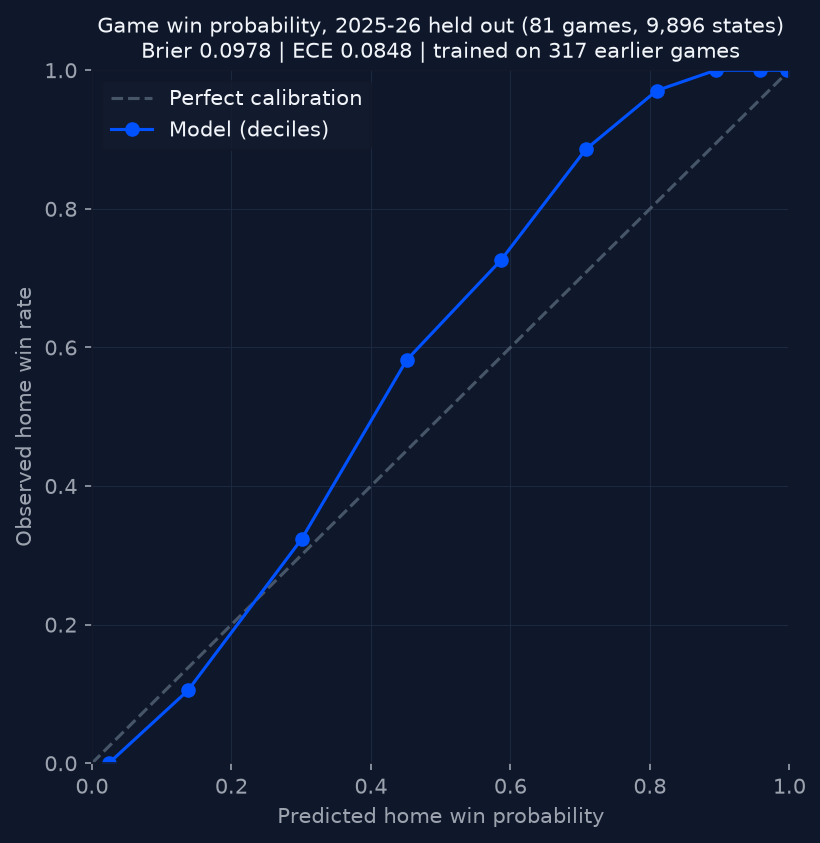
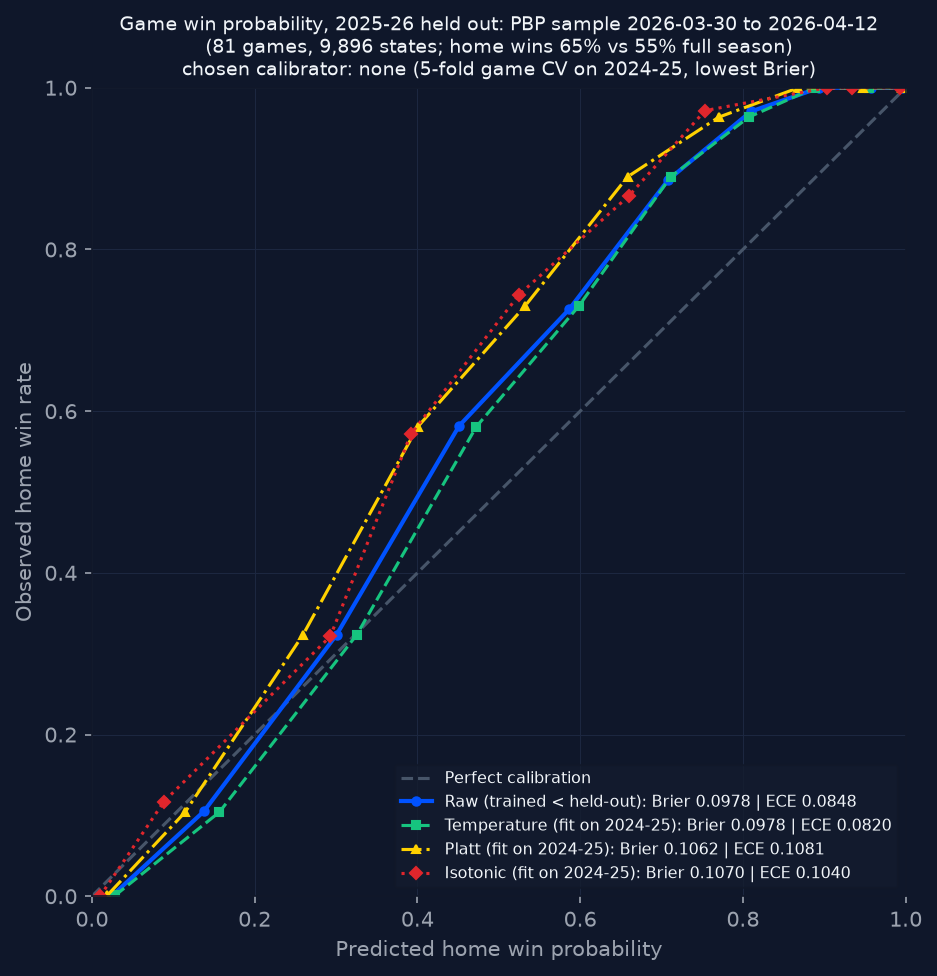
docs: honest win-probability calibration report
- calibration_plot.py compares temperature, Platt and isotonic calibrators
  fitted on 2024-25 (base model trained on earlier seasons) and chooses by
  5-fold game-grouped CV Brier on 2024-25 only; none beats the raw model, so
  none is applied. Adds a game-cluster bootstrap interval for the ECE.
- Plot: raw and calibrated curves on the 2025-26 held-out sample with Brier
  and ECE per curve; the sample is the season's last two weeks (81 games,
  65% home wins vs 55% over the full season).
- README TL;DR: ECE 0.016 in-sample, 0.085 held out (95% CI 0.058-0.142),
  calibrators did not help; states within a game are correlated.
- Ignore .claude/ (local agent worktrees).

diff --git a/scripts/calibration_plot.py b/scripts/calibration_plot.py
@@ -4,10 +4,17 @@ The model (``hoops_lab.models.game_win_probability``) is trained on every season
 before the newest complete regular season and scored on that season's PBP states (tip-off
 plus every scoring event), the same temporal split as the export gate. States are binned
 into deciles of predicted home-win probability (equal-count bins); each point is a bin's
-mean prediction against its observed home-win rate. The Brier score is in the title.
+mean prediction against its observed home-win rate.
+
+Post-hoc calibration is tested without touching the held-out season: a base model is fitted
+on the seasons before the calibration season (the one right before the held-out season),
+and temperature, Platt and isotonic calibrators are fitted on the calibration season. The
+choice uses only the calibration season: 5-fold cross-validation grouped by game, lowest
+Brier, and a calibrator is adopted only if it beats no calibration. All curves are then
+drawn on the held-out season, with Brier and ECE in the legend.
 
 States of one game are correlated, so bins are not independent samples: read the diagram
-as calibration, not as a significance test.
+as calibration, not as a significance test. The ECE interval is a game-cluster bootstrap.
 
 Run from the repo root::
 
@@ -19,6 +26,7 @@ from __future__ import annotations
 
 import argparse
 import sys
+from collections.abc import Callable
 from pathlib import Path
 
 # Repo root importable regardless of how the script is launched.
@@ -33,12 +41,16 @@ matplotlib.use("Agg")
 import matplotlib.pyplot as plt  # noqa: E402
 import numpy as np  # noqa: E402
 import pandas as pd  # noqa: E402
+from sklearn.isotonic import IsotonicRegression  # noqa: E402
+from sklearn.linear_model import LogisticRegression  # noqa: E402
+from sklearn.model_selection import GroupKFold  # noqa: E402
 
 from dashboard.components.theme import TOKENS  # noqa: E402
 from hoops_lab.models.game_win_probability import (  # noqa: E402
     build_states,
     completed_holdout_seasons,
     expected_calibration_error,
+    features,
     fit,
     predict,
     pregame_priors,
@@ -47,6 +59,10 @@ from hoops_lab.storage.database import Database  # noqa: E402
 
 OUT_PATH = "docs/img/calibration.png"
 BINS = 10
+CV_FOLDS = 5
+CALIBRATORS = ("none", "temperature", "platt", "isotonic")
+
+Calibrator = Callable[[np.ndarray], np.ndarray]
 
 
 def reliability_table(y: np.ndarray, p: np.ndarray, bins: int = BINS) -> pd.DataFrame:
@@ -69,58 +85,106 @@ def brier_score(y: np.ndarray, p: np.ndarray) -> float:
     return float(np.mean((np.asarray(p, float) - np.asarray(y, float)) ** 2))
 
 
-def holdout_predictions(db: Database) -> tuple[str, np.ndarray, np.ndarray, int, int]:
-    """Season, outcomes and predictions of the last complete season, plus train/test games."""
-    seasons = completed_holdout_seasons(db, n=1)
-    if not seasons:
-        raise SystemExit("no complete regular season in the database")
-    season = seasons[0]
-    states = build_states(
-        db.query_df("SELECT * FROM play_by_play"),
-        db.query_df("SELECT * FROM games"),
-        pregame_priors(db.query_df("SELECT * FROM box_scores_team")),
-    )
-    train = states.loc[states["season"] < season]
-    test = states.loc[states["season"] == season]
-    if train.empty or test.empty:
-        raise SystemExit(f"no PBP states to train before or score in {season}")
-    y = test["home_won"].astype(int).to_numpy()
-    return (
-        season,
-        y,
-        predict(fit(train), test),
-        train["game_id"].nunique(),
-        test["game_id"].nunique(),
-    )
+def fit_calibrators(z: np.ndarray, y: np.ndarray) -> dict[str, Calibrator]:
+    """Map logit -> probability for each method in ``CALIBRATORS``, fitted on ``(z, y)``.
+
+    ``temperature`` rescales the logit (no intercept, so the home/away symmetry of the model
+    survives), ``platt`` adds an intercept, ``isotonic`` is a monotone step function.
+    """
+    column = np.asarray(z, float).reshape(-1, 1)
+    temperature = LogisticRegression(fit_intercept=False, C=np.inf).fit(column, y)
+    platt = LogisticRegression(C=np.inf).fit(column, y)
+    isotonic = IsotonicRegression(out_of_bounds="clip", y_min=0.0, y_max=1.0).fit(column[:, 0], y)
+    return {
+        "none": lambda x: 1.0 / (1.0 + np.exp(-np.asarray(x, float))),
+        "temperature": lambda x: temperature.predict_proba(np.reshape(x, (-1, 1)))[:, 1],
+        "platt": lambda x: platt.predict_proba(np.reshape(x, (-1, 1)))[:, 1],
+        "isotonic": lambda x: isotonic.predict(np.asarray(x, float)),
+    }
 
 
-def plot(table: pd.DataFrame, title: str, out: Path) -> None:
-    """Draw the reliability diagram (theme tokens, dark card) and save it as PNG."""
-    fig, ax = plt.subplots(figsize=(6, 6), dpi=150)
+def pick_calibrator(cv: pd.DataFrame) -> str:
+    """Lowest cross-validated Brier; ``none`` unless another method is strictly lower."""
+    best = cv["brier"].idxmin()
+    return best if cv.loc[best, "brier"] < cv.loc["none", "brier"] else "none"
+
+
+def choose_calibrator(
+    z: np.ndarray, y: np.ndarray, groups: np.ndarray, folds: int = CV_FOLDS
+) -> tuple[str, pd.DataFrame]:
+    """Chosen method and its CV table (Brier, ECE), from game-grouped K-fold on ``(z, y)``.
+
+    Out-of-fold predictions only: scoring a calibrator on the states it was fitted on
+    rewards overfitting (isotonic reaches ECE 0 that way).
+    """
+    z, y = np.asarray(z, float), np.asarray(y, int)
+    oof = {name: np.zeros(len(y)) for name in CALIBRATORS}
+    for train, test in GroupKFold(folds).split(z, y, groups):
+        fitted = fit_calibrators(z[train], y[train])
+        for name in CALIBRATORS:
+            oof[name][test] = fitted[name](z[test])
+    cv = pd.DataFrame(
+        {
+            "brier": [brier_score(y, oof[name]) for name in CALIBRATORS],
+            "ece": [expected_calibration_error(y, oof[name]) for name in CALIBRATORS],
+        },
+        index=list(CALIBRATORS),
+    )
+    return pick_calibrator(cv), cv
+
+
+def cluster_bootstrap_ece(
+    y: np.ndarray, p: np.ndarray, groups: np.ndarray, n_boot: int = 1000, seed: int = 0
+) -> tuple[float, float]:
+    """95% interval of the ECE, resampling whole games (states of a game are correlated)."""
+    frame = pd.DataFrame({"y": y, "p": p, "g": groups})
+    by_game = [game[["y", "p"]].to_numpy(float) for _, game in frame.groupby("g")]
+    rng = np.random.default_rng(seed)
+    draws = []
+    for _ in range(n_boot):
+        sample = np.concatenate([by_game[i] for i in rng.integers(0, len(by_game), len(by_game))])
+        draws.append(expected_calibration_error(sample[:, 0], sample[:, 1]))
+    lo, hi = np.percentile(draws, [2.5, 97.5])
+    return float(lo), float(hi)
+
+
+def _logit(model: LogisticRegression, states: pd.DataFrame) -> np.ndarray:
+    return model.decision_function(features(states))
+
+
+def plot(curves: dict[str, tuple[pd.DataFrame, str]], title: str, out: Path) -> None:
+    """Draw the reliability curves (label -> (table, style key)) and save them as PNG."""
+    styles = {
+        "raw": {"color": TOKENS["primary"], "linestyle": "-", "marker": "o", "linewidth": 2},
+        "temperature": {"color": TOKENS["good"], "linestyle": "--", "marker": "s"},
+        "platt": {"color": TOKENS["mid"], "linestyle": "-.", "marker": "^"},
+        "isotonic": {"color": TOKENS["weak"], "linestyle": ":", "marker": "D"},
+    }
+    fig, ax = plt.subplots(figsize=(7, 7), dpi=150)
     fig.patch.set_facecolor(TOKENS["bg_card"])
     ax.set_facecolor(TOKENS["bg_card"])
     ax.plot([0, 1], [0, 1], linestyle="--", color=TOKENS["text_faint"], label="Perfect calibration")
-    ax.plot(
-        table["predicted"],
-        table["observed"],
-        marker="o",
-        color=TOKENS["primary"],
-        label="Model (deciles)",
-    )
+    for label, (table, key) in curves.items():
+        ax.plot(table["predicted"], table["observed"], markersize=4, label=label, **styles[key])
     ax.set(
         xlim=(0, 1),
         ylim=(0, 1),
         xlabel="Predicted home win probability",
         ylabel="Observed home win rate",
     )
-    ax.set_title(title, color=TOKENS["text"], fontsize=10)
+    ax.set_title(title, color=TOKENS["text"], fontsize=9)
     ax.grid(color=TOKENS["grid"], linewidth=0.5)
     for spine in ax.spines.values():
         spine.set_color(TOKENS["border"])
     ax.tick_params(colors=TOKENS["text_soft"])
     ax.xaxis.label.set_color(TOKENS["text_soft"])
     ax.yaxis.label.set_color(TOKENS["text_soft"])
-    legend = ax.legend(loc="upper left", facecolor=TOKENS["bg_tile"], edgecolor=TOKENS["border"])
+    legend = ax.legend(
+        loc="lower right",
+        fontsize=7.5,
+        facecolor=TOKENS["bg_tile"],
+        edgecolor=TOKENS["border"],
+    )
     for text in legend.get_texts():
         text.set_color(TOKENS["text"])
     out.parent.mkdir(parents=True, exist_ok=True)
@@ -136,21 +200,81 @@ def main(argv: list[str] | None = None) -> int:
     db = Database()
     try:
         db.ensure_db_ready()
-        season, y, p, train_games, test_games = holdout_predictions(db)
+        held = completed_holdout_seasons(db, n=1)
+        games = db.query_df("SELECT * FROM games")
+        states = build_states(
+            db.query_df("SELECT * FROM play_by_play"),
+            games,
+            pregame_priors(db.query_df("SELECT * FROM box_scores_team")),
+        )
     finally:
         db.close()
+    if not held:
+        raise SystemExit("no complete regular season in the database")
+    season = held[0]
+    earlier = sorted(states.loc[states["season"] < season, "season"].unique())
+    if len(earlier) < 2 or not (states["season"] == season).any():
+        raise SystemExit(f"need PBP states for {season} and two seasons before it")
+    cal_season = earlier[-1]
 
-    table = reliability_table(y, p)
-    brier = brier_score(y, p)
-    ece = expected_calibration_error(y, p)
+    train = states.loc[states["season"] < season]
+    test = states.loc[states["season"] == season]
+    cal = states.loc[states["season"] == cal_season]
+    y, y_cal, y_train = (frame["home_won"].astype(int).to_numpy() for frame in (test, cal, train))
+
+    # Raw: the shipped recipe, trained on every season before the held-out one.
+    raw_model = fit(train)
+    p_raw = predict(raw_model, test)
+    in_sample_ece = expected_calibration_error(y_train, predict(raw_model, train))
+    ece_lo, ece_hi = cluster_bootstrap_ece(y, p_raw, test["game_id"].to_numpy())
+
+    # Calibration: base model before the calibration season, calibrators on it, CV choice.
+    base = fit(states.loc[states["season"] < cal_season])
+    z_cal, z_test = _logit(base, cal), _logit(base, test)
+    chosen, cv = choose_calibrator(z_cal, y_cal, cal["game_id"].to_numpy())
+    fitted = fit_calibrators(z_cal, y_cal)
+
+    def legend(name: str, p: np.ndarray) -> str:
+        return f"{name}: Brier {brier_score(y, p):.4f} | ECE {expected_calibration_error(y, p):.4f}"
+
+    curves = {legend("Raw (trained < held-out)", p_raw): (reliability_table(y, p_raw), "raw")}
+    for name in CALIBRATORS[1:]:
+        p = fitted[name](z_test)
+        curves[legend(f"{name.capitalize()} (fit on {cal_season})", p)] = (
+            reliability_table(y, p),
+            name,
+        )
+
+    sample = games.loc[games["game_id"].astype(str).isin(test["game_id"])]
+    first, last = (
+        pd.Timestamp(d).strftime("%Y-%m-%d") for d in sample["game_date"].agg(["min", "max"])
+    )
+    regular = games.loc[(games["season"] == season) & (games["season_type"] == "Regular Season")]
+    season_home = float((regular["home_pts"] > regular["away_pts"]).mean())
+    sample_home = float(test.drop_duplicates("game_id")["home_won"].mean())
+
     title = (
-        f"Game win probability, {season} held out ({test_games} games, {len(y):,} states)\n"
-        f"Brier {brier:.4f} | ECE {ece:.4f} | trained on {train_games} earlier games"
+        f"Game win probability, {season} held out: PBP sample {first} to {last}\n"
+        f"({test['game_id'].nunique()} games, {len(y):,} states; home wins {sample_home:.0%} "
+        f"vs {season_home:.0%} full season)\n"
+        f"chosen calibrator: {chosen} (5-fold game CV on {cal_season}, lowest Brier)"
     )
     out = ROOT / args.out
-    plot(table, title, out)
-    print(table.to_string(float_format="%.3f"))
-    print(f"season={season} brier={brier:.4f} ece={ece:.4f} -> {out.relative_to(ROOT)}")
+    plot(curves, title, out)
+
+    print(f"calibration set {cal_season}, game-grouped {CV_FOLDS}-fold CV:")
+    print(cv.to_string(float_format="%.4f"))
+    print(f"chosen: {chosen}")
+    print(f"held-out {season}: {test['game_id'].nunique()} games, {first} to {last}")
+    print(f"home win rate: PBP sample {sample_home:.3f} vs full regular season {season_home:.3f}")
+    for label in curves:
+        print(f"  {label}")
+    print(
+        f"raw in-sample ECE {in_sample_ece:.4f}; raw held-out ECE "
+        f"{expected_calibration_error(y, p_raw):.4f}, game-cluster bootstrap 95% "
+        f"[{ece_lo:.3f}, {ece_hi:.3f}]"
+    )
+    print(f"-> {out.relative_to(ROOT)}")
     return 0
 
 

diff --git a/tests/unit/test_calibration_plot.py b/tests/unit/test_calibration_plot.py
@@ -3,9 +3,18 @@
 from __future__ import annotations
 
 import numpy as np
+import pandas as pd
 import pytest
 
-from scripts.calibration_plot import brier_score, reliability_table
+from hoops_lab.models.game_win_probability import expected_calibration_error
+from scripts.calibration_plot import (
+    brier_score,
+    choose_calibrator,
+    cluster_bootstrap_ece,
+    fit_calibrators,
+    pick_calibrator,
+    reliability_table,
+)
 
 
 def test_reliability_table_equal_count_bins() -> None:
@@ -33,3 +42,50 @@ def test_reliability_table_splits_ties_into_equal_bins() -> None:
 def test_brier_score_hand_computed() -> None:
     # (0.1-0)^2 + (0.8-1)^2 + (0.5-1)^2 = 0.01 + 0.04 + 0.25 = 0.30 -> mean 0.10
     assert brier_score(np.array([0, 1, 1]), np.array([0.1, 0.8, 0.5])) == pytest.approx(0.10)
+
+
+def _miscalibrated(n: int = 6000, scale: float = 2.0, seed: int = 0):
+    """Logits ``z`` whose true probability is sigmoid(scale * z): under-confident by ``scale``."""
+    rng = np.random.default_rng(seed)
+    z = rng.normal(0.0, 1.0, n)
+    y = (rng.random(n) < 1.0 / (1.0 + np.exp(-scale * z))).astype(int)
+    groups = np.arange(n) // 20  # 20 states per "game"
+    return z, y, groups
+
+
+def test_temperature_recovers_known_scale() -> None:
+    z, y, _ = _miscalibrated(n=20000, scale=2.0)
+
+    calibrators = fit_calibrators(z, y)
+
+    p = calibrators["temperature"](np.array([0.0, 1.0]))
+    assert p[0] == pytest.approx(0.5)
+    # sigmoid(2 * 1) = 0.881; recovered within sampling noise
+    assert p[1] == pytest.approx(0.881, abs=0.02)
+
+
+def test_pick_keeps_none_unless_a_calibrator_beats_it() -> None:
+    cv = pd.DataFrame({"brier": [0.150, 0.151, 0.153]}, index=["none", "temperature", "platt"])
+    assert pick_calibrator(cv) == "none"
+
+    cv.loc["platt", "brier"] = 0.149
+    assert pick_calibrator(cv) == "platt"
+
+
+def test_choose_calibrator_fixes_strong_miscalibration() -> None:
+    z, y, groups = _miscalibrated()
+
+    chosen, cv = choose_calibrator(z, y, groups)
+
+    assert set(cv.index) == {"none", "temperature", "platt", "isotonic"}
+    assert chosen != "none"
+    assert cv.loc[chosen, "brier"] < cv.loc["none", "brier"]
+
+
+def test_cluster_bootstrap_interval_brackets_point_estimate() -> None:
+    z, y, groups = _miscalibrated(n=2000)
+    p = 1.0 / (1.0 + np.exp(-z))
+
+    lo, hi = cluster_bootstrap_ece(y, p, groups, n_boot=200)
+
+    assert 0.0 <= lo < expected_calibration_error(y, p) < hi

diff --git a/README.md b/README.md
@@ -2,9 +2,11 @@
 
 > **TL;DR** — A production-style data product built end to end by one person: scheduled ingestion from the NBA API into Parquet and DuckDB, a tested analytics package (~375 tests), probabilistic models (game win probability, shot quality, lineup recommender) and three ways to consume them: an importable Python package, a 9-page Streamlit tool and a statically generated Next.js website with live win probability.
 >
-> **What it demonstrates beyond basketball:** idempotent data pipelines with daily refresh · calibrated probability models (the same discipline as a credit PD model) · separation between business logic and presentation · deployment on Vercel and Streamlit Community Cloud.
+> **What it demonstrates beyond basketball:** idempotent data pipelines with daily refresh · probability models validated out of time with calibration diagnostics (the same discipline as a credit PD model) · separation between business logic and presentation · deployment on Vercel and Streamlit Community Cloud.
 >
-> ![Calibration plot: predicted vs observed home win rate by decile, 2025-26 held out](docs/img/calibration.png)
+> ![Reliability diagram: predicted vs observed home win rate by decile on the 2025-26 held-out sample, raw model and three post-hoc calibrators](docs/img/calibration.png)
+>
+> **Calibration:** the game win-probability model has ECE 0.016 on its training seasons but **0.085 on the held-out season** (2025-26: 81 play-by-play games, all from its last two weeks; 95% game-cluster bootstrap interval 0.058–0.142). That fortnight had 65% home wins against 55% over the full season. Temperature, Platt and isotonic calibrators, chosen by game-grouped cross-validation on 2024-25 only, did not beat the raw model on Brier, so none is applied (on 2025-26 they score ECE 0.082, 0.108 and 0.104). In-game states of one game are correlated, so the bins are not independent samples. A whole-season play-by-play sample is being built to re-evaluate.
 >
 > 🔗 [Website](https://hoops-lab.vercel.app/) · [Live games](https://hoops-lab.vercel.app/live) · [Dashboard](https://hoopslab.streamlit.app/)
 
